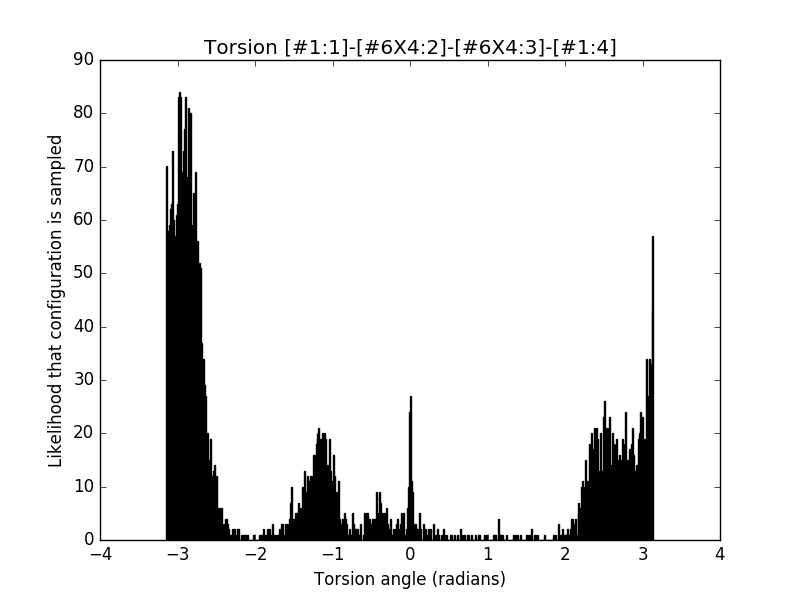
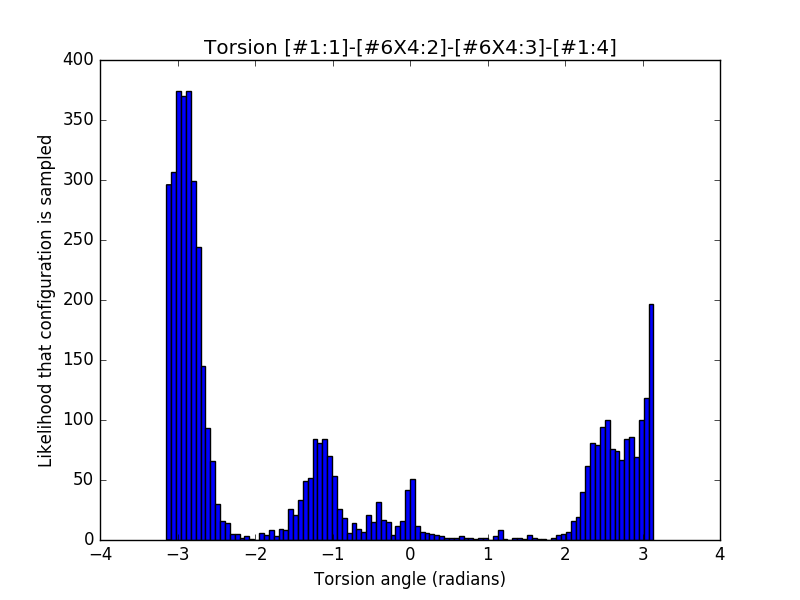
change bin numbers

diff --git a/single-molecule-property-generation/least_squares_fit_example.py b/single-molecule-property-generation/least_squares_fit_example.py
@@ -464,7 +464,7 @@ torsion_r48_c = torstimeser_r48[12]
 #likelihood = (np.bincount(binplace))/100.
 
 
-num_bins = 500
+num_bins = 100
 
 #plt.figure()
 #plt.hist(bond_r51_a,num_bins,color='green')
@@ -508,13 +508,13 @@ num_bins = 500
 #plt.savefig('torsion_histograms/Torsion_likelihood_r48_r51_comp_tors_[#1:1]-[#6X4:2]-[#6X4:3]-[#1:4].png')
 
 plt.figure()
-(n1,bins1,patch1) = plt.hist(torsion_r48_a,num_bins,label='AlkEthOH_r48',color='green')
+(n1,bins1,patch1) = plt.hist(torsion_r48_a,num_bins,label='AlkEthOH_r48 histogram',color='green')
 for i,j in enumerate(n1):
 	if j==0.:
            n1[i]=5.
 
-popt, pcov = sci.curve_fit(fourier, bins1[1:], n1, [1.0] + [1.0,1.0,0.0]*6,maxfev=10000)
-plt.plot(bins1[1:],fourier(bins1[1:],*popt))
+popt, pcov = sci.curve_fit(fourier, bins1[1:], n1, [1.0] + [1.0,1.0,0.0]*6,maxfev=100000)
+plt.plot(bins1[1:],fourier(bins1[1:],*popt),label='AlkEthOH_r48 fourier fit')
 plt.ylabel('Number of times configuration is sampled')
 plt.xlabel('Torsion angle (radians)')
 plt.title('Torsion sample in AlkEthOH_r48')
